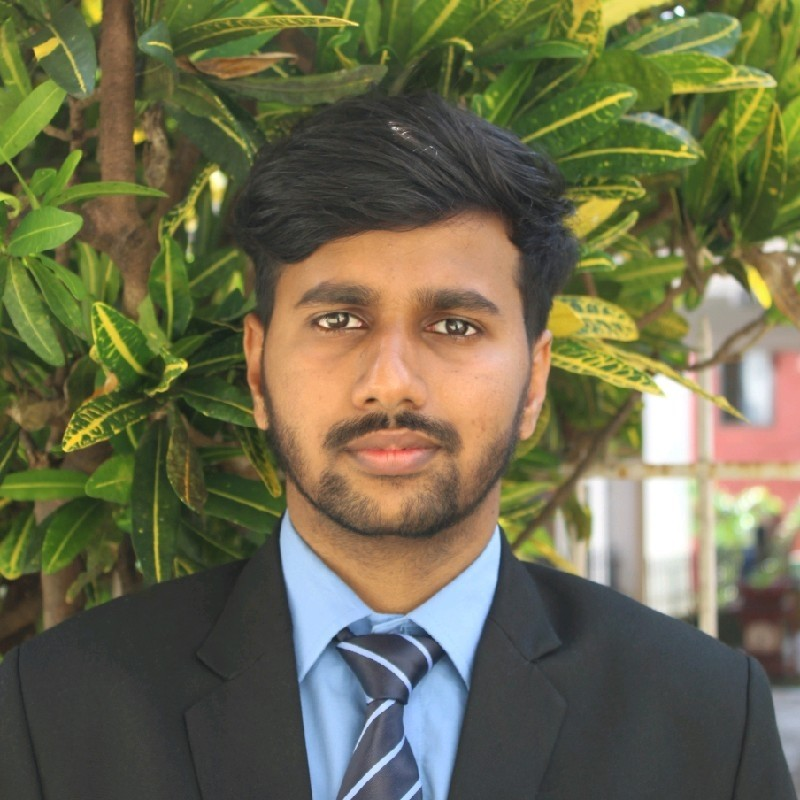
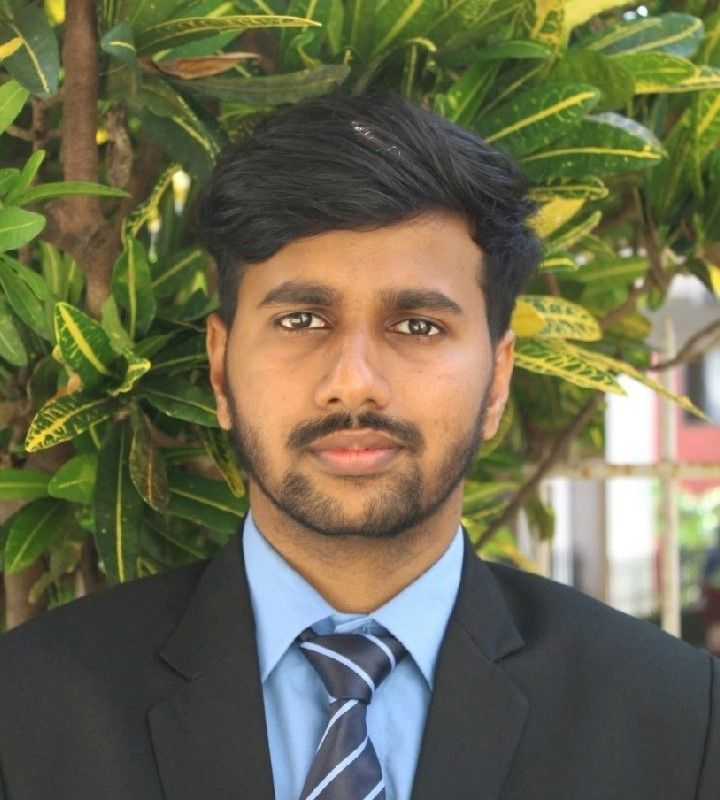
personal info top section added

diff --git a/about.html b/about.html
@@ -104,36 +104,47 @@ Author URL: http://w3layouts.com
             <div class="row">
                 <div class="col-lg-4">
                     <div class="position-relative">
-                        <img src="assets/images/myphoto1.jpg" alt="" class="radius-image img-fluid">
+                        <img style="height: 380px; object-fit:cover ;" src="assets/images/1637514859357.jpg" alt="" class="radius-image img-fluid">
                     </div>
                 </div>
                 <div class="col-lg-8 mt-lg-0 mt-5">
-                    <h5 class="title-small mb-2">Hello, I am UI/UX Designer</h5>
-                    <h3 class="title-big">Having O7 Years of Experience</h3>
-                    <p class="mt-4">Lorem ipsum viverra feugiat. Pellen tesque libero ut justo,
-                        ultrices in ligula. Semper at tempufddfel. Lorem ipsum dolor sit amet consectetur adipisicing
-                        elit. Non quae, fugiat consequatur voluptatem nihil ad. Lorem ipsum dolor sit amet.</p>
+                    <h3 class="title-big">Personal infos</h3>
+                    <p class="mt-4">I love to work in Web Development. Because I love to solve the design problem and find easy and better solutions to solve
+                    it. I constantly make an effort to create excellent websites with the finest user experience.</p>
                     <div class="my-info mt-4">
                         <div class="single-info"><span>Name:</span>
-                            <p>Alexander Smith</p>
+                            <p>Clevin M Wilson</p>
                         </div>
                         <div class="single-info"><span>Age:</span>
-                            <p>24 Years</p>
+                            <p>23 Years</p>
                         </div>
-                        <div class="single-info"><span>From:</span>
-                            <p>London, UK</p>
+                        <div class="single-info"><span>Domain:</span>
+                            <p>Fullstack Developer (MERN)</p>
                         </div>
                         <div class="single-info"><span>Email:</span>
-                            <p><a href="mailto:alexander@mail.com">alexander@mail.com</a></p>
+                            <p><a href="mailto:clevinmwilson@gmail.com">clevinmwilson@gmail.com</a></p>
                         </div>
+                        <div class="single-info"><span>Phone:</span>
+                          <p>+91 9400251580</p>
+                        </div><div class="single-info"><span>Langages:</span>
+                          <p>English, Malayalam</p>
+                        </div>
+                        
+                        
                     </div>
                     <div class="my-social mt-lg-5 mt-4">
-                        <a href="#download" class="btn btn-style btn-primary">Download CV</a>
+                      <a class="button btn btn-outline-primary btn-style mr-2 download-btn-wrap" href="about.html">
+                        <span>more about me</span>
+                        <span class="ml-2"><i class="fa-solid fa-download"></i></span>
+                      </a>
                         <ul class="social m-0 p-0">
-                            <li><a href="#twitter"><span class="fa fa-twitter"></span></a></li>
-                            <li><a href="#instagram"><span class="fa fa-instagram"></span></a></li>
-                            <li><a href="#facebook"><span class="fa fa-facebook-official"></span></a></li>
-                            <li><a href="#linkedin"><span class="fa fa-linkedin-square"></span></a></li>
+                            <li><a style="font-size: 22px;" class="facebook-social-icon" href="https://github.com/clevinwilson"><span
+                                  class=" fa-brands fa-github"></span></a></li>
+                            <li><a class="linkedin-social-icon" href="https://in.linkedin.com/in/clevin-m-wilson-9800b51a9"><span
+                                  class="fa fa-linkedin-square"></span></a></li>
+                            <li><a class="instagram-social-icon" href="https://www.instagram.com/clevinmw"><span class="fa fa-instagram"></span></a>
+                            </li>
+                            <li><a class="twitter-social-icon" href="#twitter"><span class="fa fa-twitter"></span></a></li>
                           </ul>
                     </div>
                 </div>

diff --git a/assets/css/style-starter.css b/assets/css/style-starter.css
@@ -16494,3 +16494,16 @@ div#small-dialog iframe {
 .twitter-social-icon:hover {
   color: #1da1f2 !important;
 }
+
+.fa-download {
+  background: #8e43e7;
+  padding: 9px;
+  border-radius: 50%;
+  font-size: 12px;
+  padding-left: 10px;
+}
+
+.download-btn-wrap{
+  display: flex !important;
+  justify-content: space-evenly !important;
+}
